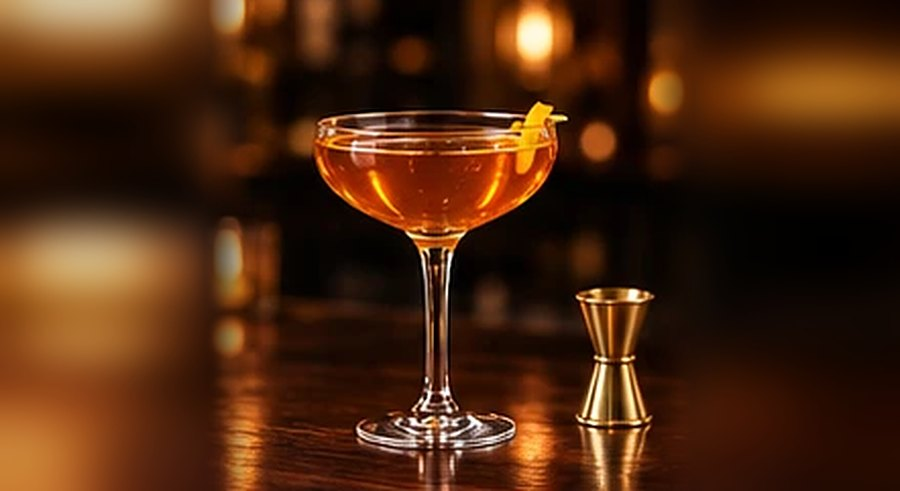
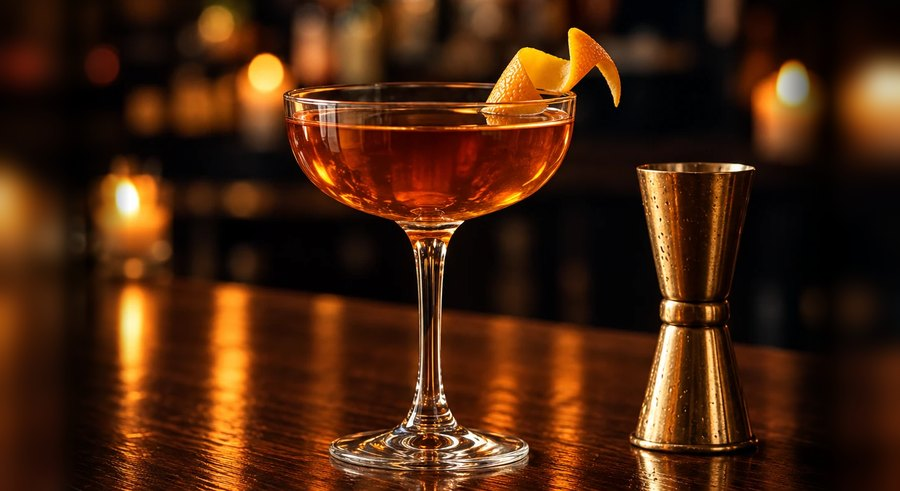
feat(photos): Bee's Knees + Tequila Old Fashioned photos, sharper looks (v3.3.1) (#30)
- Add exact photos for Bee's Knees and Tequila Old Fashioned (cropped
  from 1280x720 renders to 900x491) and drop both from their shared
  look groups.
- Replace four look photos with high-res renders: highball pink
  citrus-mint, coupe amber twist, highball clear lemon, rocks amber
  lemon twist (23 drinks).
- Test: both drinks resolve to their exact photos.
- Bump to v3.3.1 / cache mixvault-v18.

diff --git a/app.js b/app.js
@@ -8,7 +8,7 @@
 const DATA_BASE = './'; // path prefix for JSON data files
 
 // App version — bump this AND CACHE_NAME in sw.js together on every release.
-const APP_VERSION = '3.3.0';
+const APP_VERSION = '3.3.1';
 
 // ── STATE ────────────────────────────────────────────────
 let allIngredients    = [];
@@ -127,6 +127,8 @@ const DRINK_PHOTOS = {
   'cosmopolitan':      'assets/img/cosmopolitan.jpg',
   'mojito':            'assets/img/virgin-mojito.jpg',
   'gin-martini':       'assets/img/gin-martini.jpg',
+  'bee-s-knees':       'assets/img/bee-s-knees.jpg',
+  'tequila-old-fashioned': 'assets/img/tequila-old-fashioned.jpg',
   'penicillin':        'assets/img/penicillin.jpg',
   'mimosa':            'assets/img/mimosa.jpg',
   'clover-club-pomegranate': 'assets/img/clover-club-pomegranate.jpg',
@@ -153,13 +155,13 @@ const SHARED_PHOTOS = {
     'gin-pomegranate-collins-soda-free', 'floradora', 'pomegranate-lemonade', 'rum-punch', 'nojito-royale', 'rooh-afza-rose-cooler',
   ],
   'assets/img/look-rocks-amber-lemon-twist.jpg': [
-    'godmother', 'amaretto-old-fashioned', 'monte-carlo', 'tequila-old-fashioned', 'negroni-bianco',
+    'godmother', 'amaretto-old-fashioned', 'monte-carlo', 'negroni-bianco',
   ],
   'assets/img/look-rocks-golden-sour-lemon.jpg': [
     'irish-whiskey-sour', 'rum-sour', 'scotch-sour-cocoa-twist', 'elderflower-whisky-sour', 'scotch-amaretto-sour',
   ],
   'assets/img/look-coupe-pale-lemon-twist.jpg': [
-    'bee-s-knees', 'white-lady', 'elderflower-martini', 'corpse-reviver-no-2', 'lemon-drop',
+    'white-lady', 'elderflower-martini', 'corpse-reviver-no-2', 'lemon-drop',
   ],
   'assets/img/look-highball-ginger-lime.jpg': [
     'kingston-highball', 'scottish-mule', 'rum-cooler', 'dark-n-stormy', 'mamie-taylor',

diff --git a/e2e/mixology.spec.js b/e2e/mixology.spec.js
@@ -64,8 +64,8 @@ test.describe('Snap feature relocated into Decide', () => {
 });
 
 test.describe('Version functionality', () => {
-  test('visible version label reads v3.3.0', async ({ page }) => {
-    await expect(page.locator('#app-version')).toHaveText('v3.3.0');
+  test('visible version label reads v3.3.1', async ({ page }) => {
+    await expect(page.locator('#app-version')).toHaveText('v3.3.1');
   });
 
   test('update banner exists and starts hidden', async ({ page }) => {
@@ -433,8 +433,11 @@ test.describe('v3 Stitch redesign', () => {
     const info = await page.evaluate(() => {
       const shared = Object.values(SHARED_PHOTOS).flat();
       return { dupes: shared.filter((id, i) => shared.indexOf(id) !== i),
-               negroni: DRINK_PHOTOS['negroni'], vodkaSour: DRINK_PHOTOS['vodka-sour'] };
+               negroni: DRINK_PHOTOS['negroni'], vodkaSour: DRINK_PHOTOS['vodka-sour'],
+               beesKnees: DRINK_PHOTOS['bee-s-knees'], tequilaOF: DRINK_PHOTOS['tequila-old-fashioned'] };
     });
+    expect(info.beesKnees).toBe('assets/img/bee-s-knees.jpg');
+    expect(info.tequilaOF).toBe('assets/img/tequila-old-fashioned.jpg');
     expect(info.dupes).toEqual([]);
     expect(info.negroni).toBe('assets/img/negroni.jpg');
     expect(info.vodkaSour).toBe('assets/img/look-rocks-pale-sour-lemon.jpg');

diff --git a/sw.js b/sw.js
@@ -1,5 +1,5 @@
 // Release ritual: bump CACHE_NAME here AND APP_VERSION in app.js together.
-const CACHE_NAME = 'mixvault-v17';
+const CACHE_NAME = 'mixvault-v18';
 const STATIC_ASSETS = [
   './index.html',
   './app.js',
